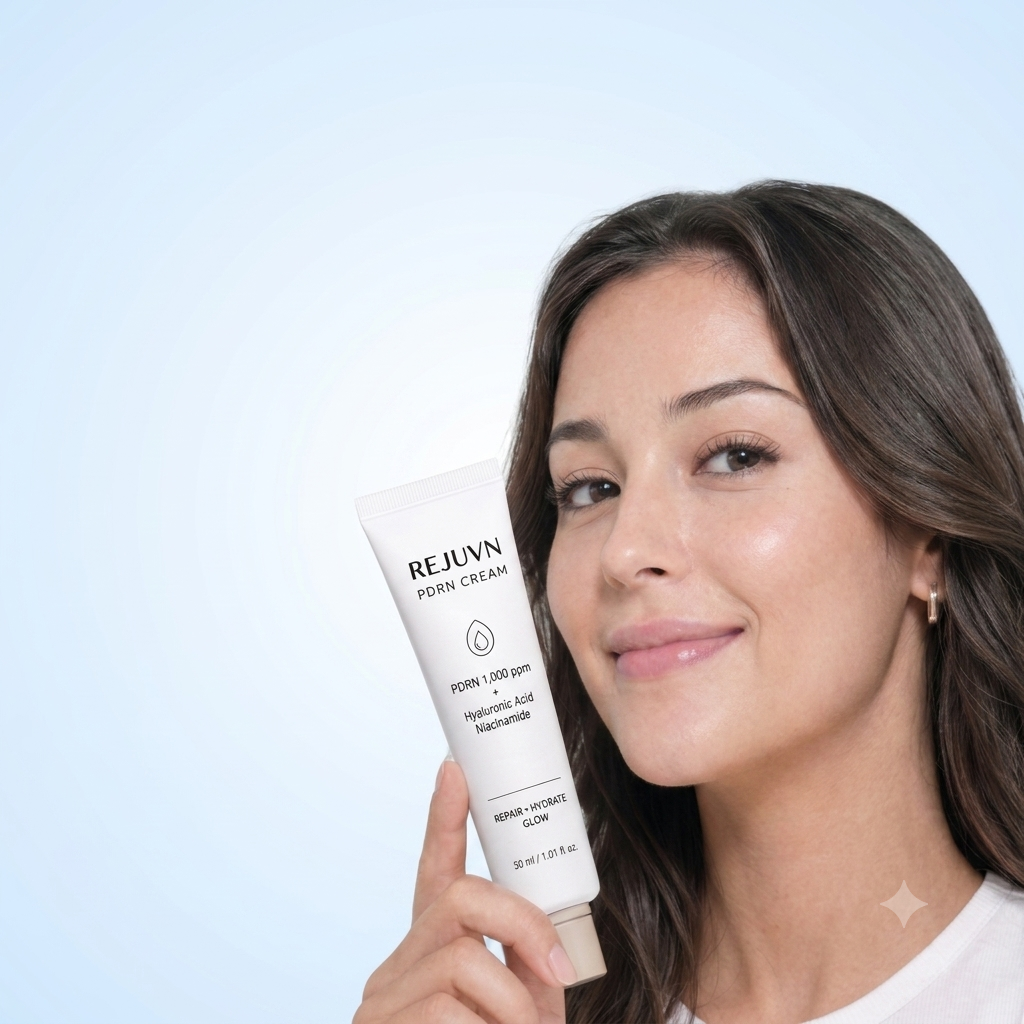
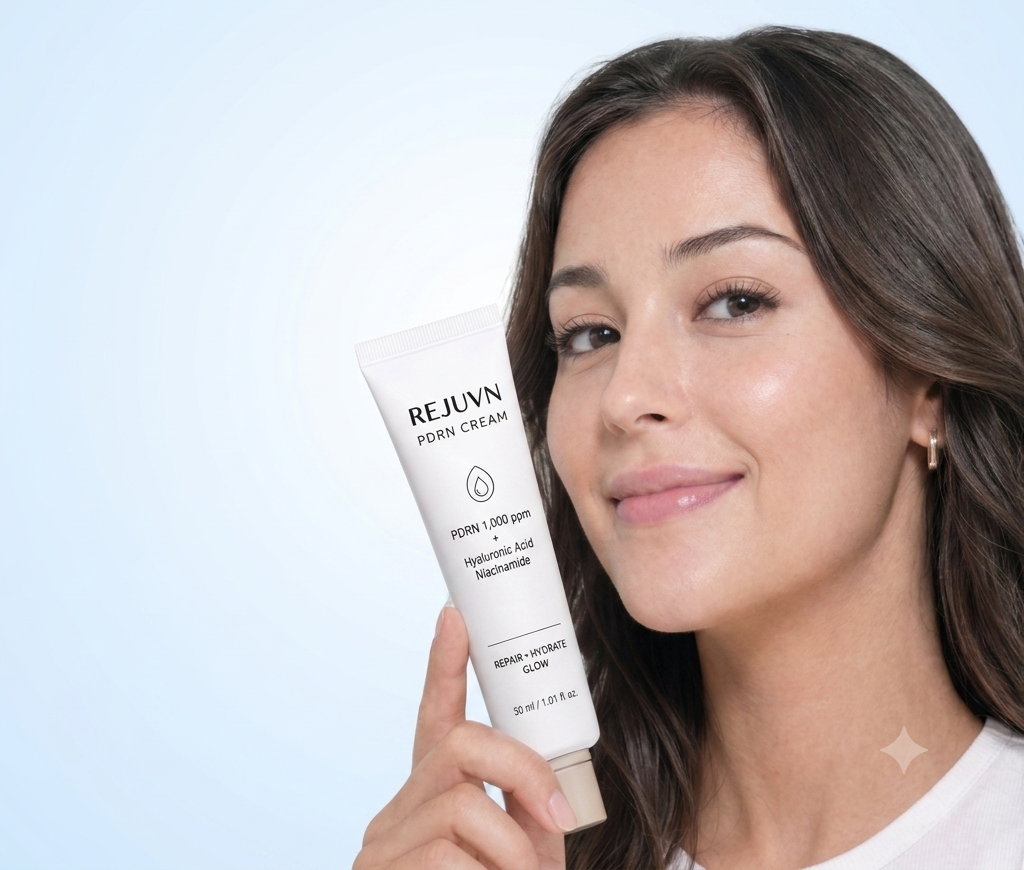
update

diff --git a/src/app/pages/landing-page/landing-page.component.css b/src/app/pages/landing-page/landing-page.component.css
@@ -133,18 +133,18 @@ h1 em { color: var(--sky-mid); font-style: italic; }
 }
 .hero-actions { display: flex; align-items: center; gap: 1.5rem; flex-wrap: wrap; }
 .btn-primary {
-  background: var(--terracotta); color: white;
+  background: #1a1a1a; color: white;
   border: none; padding: 1rem 2.5rem;
   font-family: var(--font-sans); font-size: 0.85rem;
   letter-spacing: 0.12em; text-transform: uppercase;
-  cursor: pointer; border-radius: 2px;
+  cursor: pointer; border-radius: 50px;
   transition: all 0.3s;
   text-decoration: none; display: inline-block;
 }
 .btn-primary:hover {
-  background: var(--terracotta-dark);
+  background: #333;
   transform: translateY(-2px);
-  box-shadow: 0 8px 24px rgba(184,115,85,0.3);
+  box-shadow: 0 8px 24px rgba(0,0,0,0.25);
 }
 .hero-price {
   font-family: var(--font-serif);